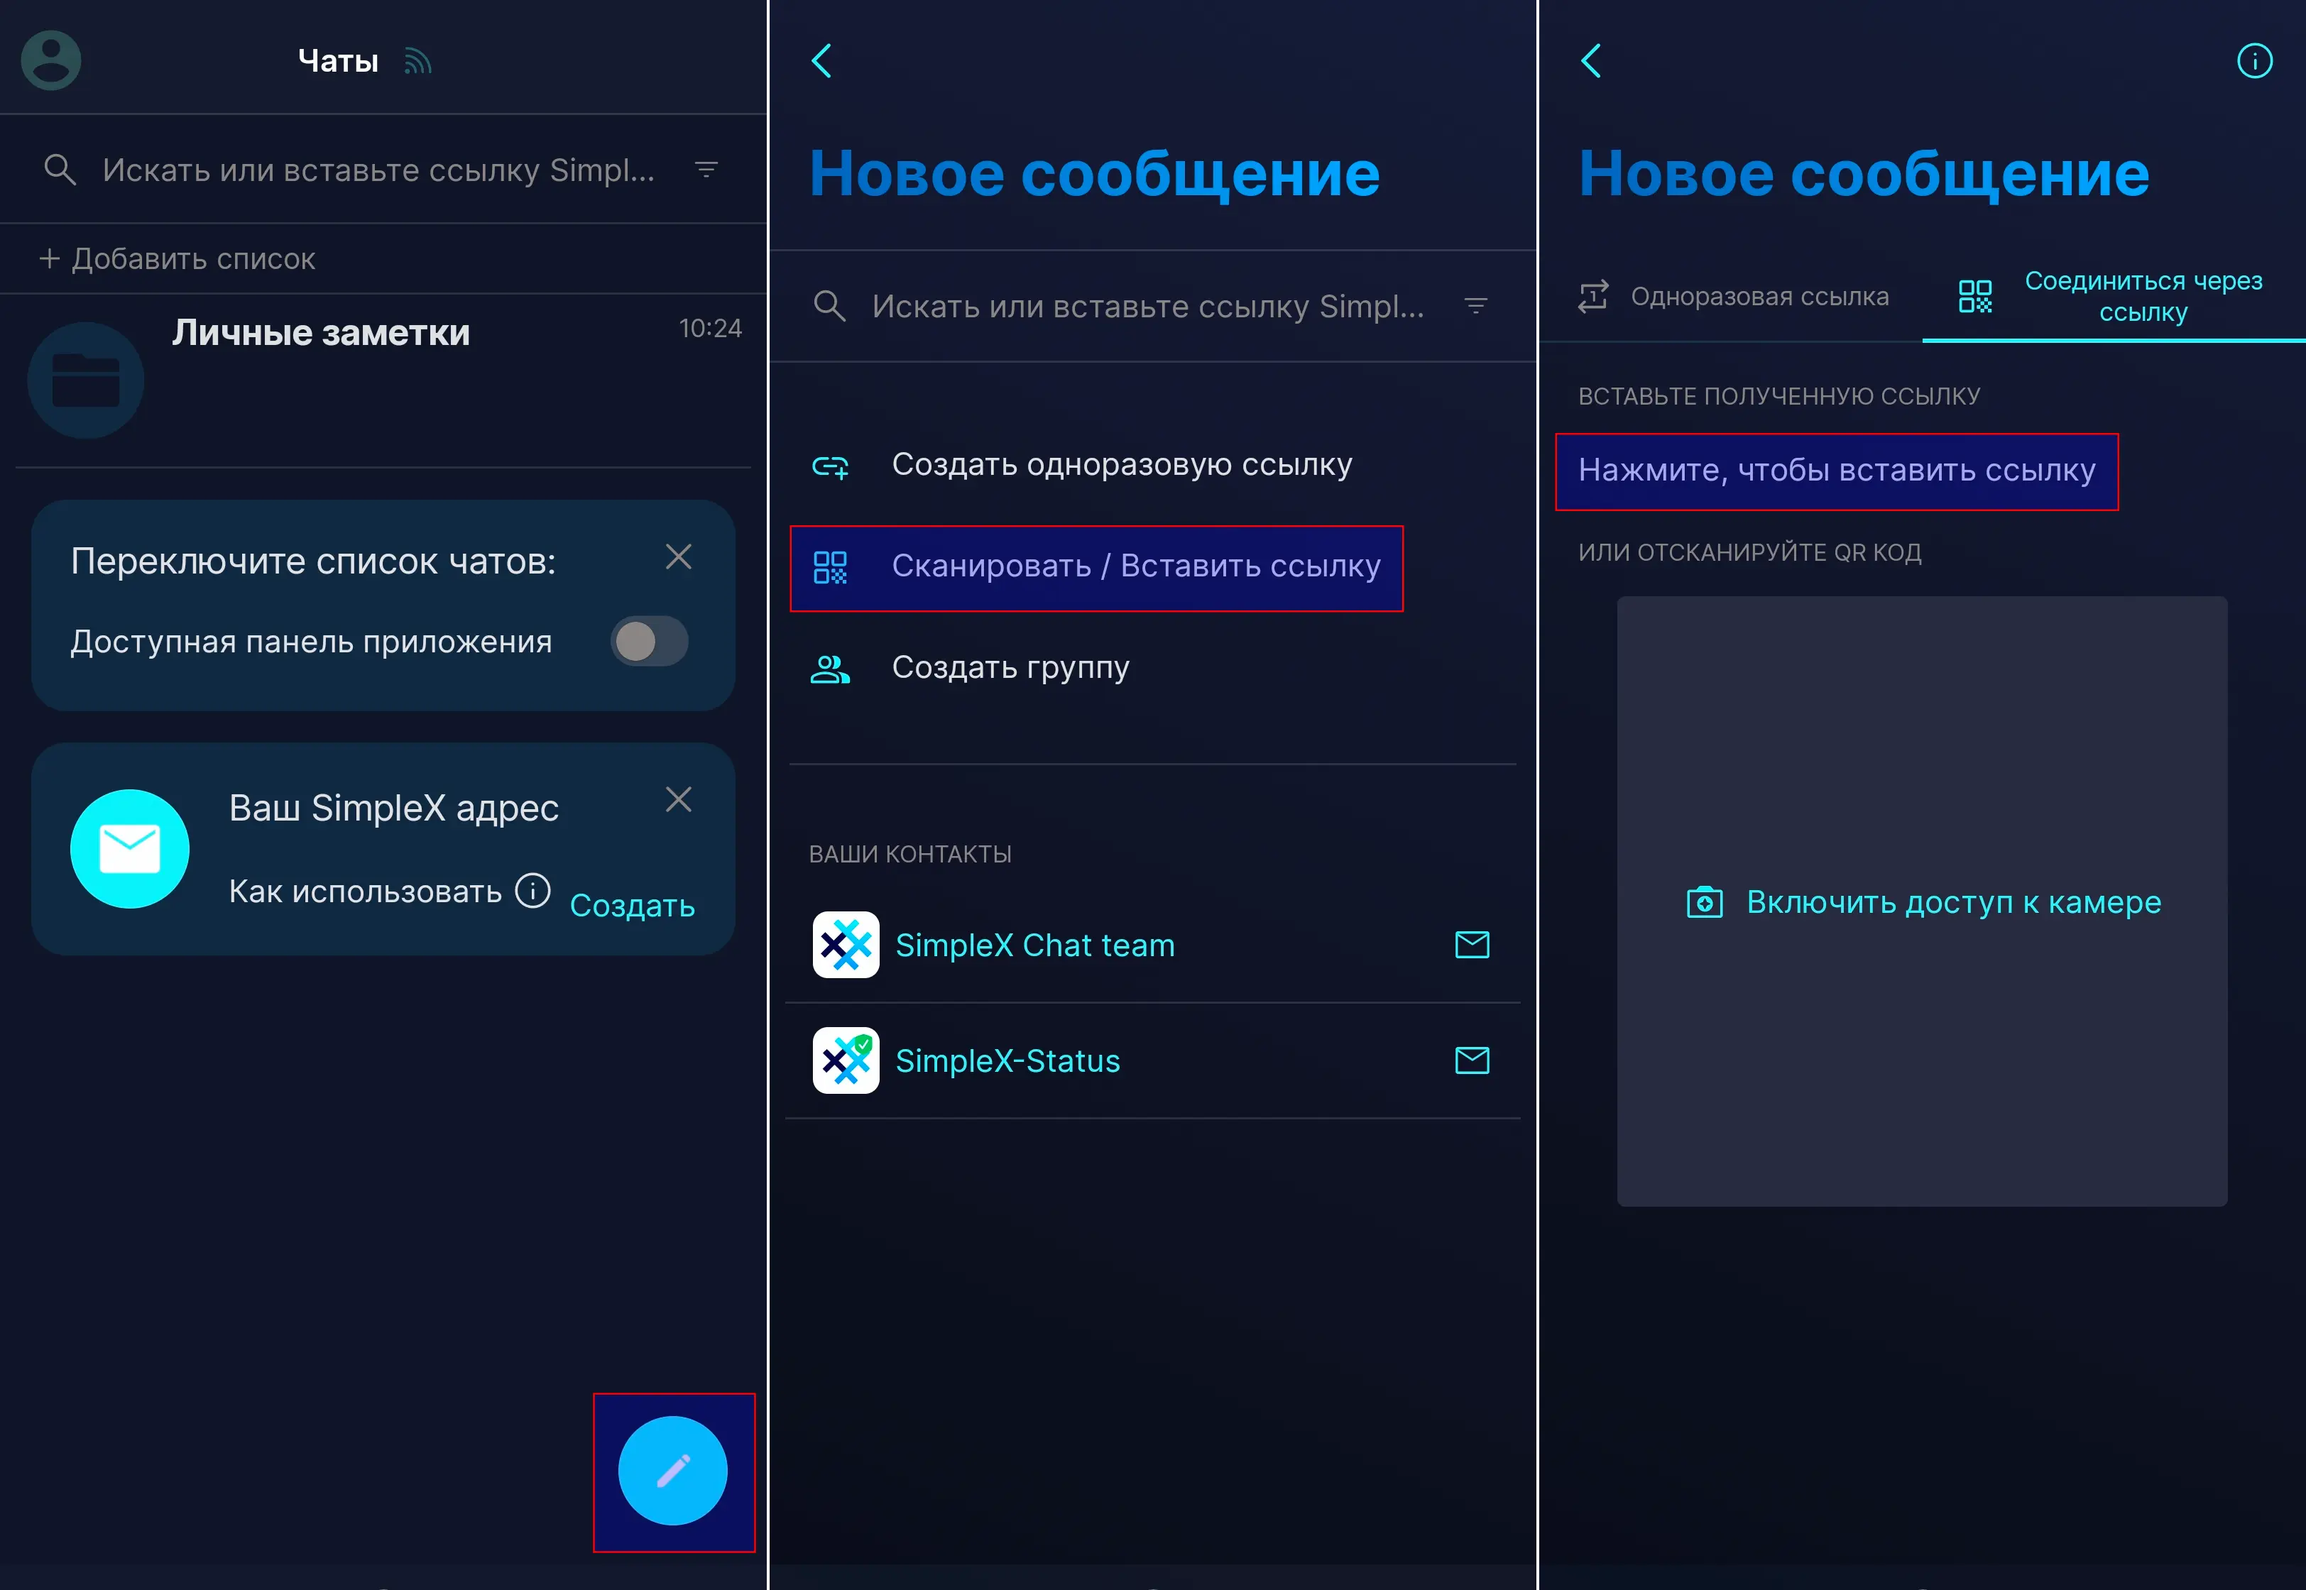
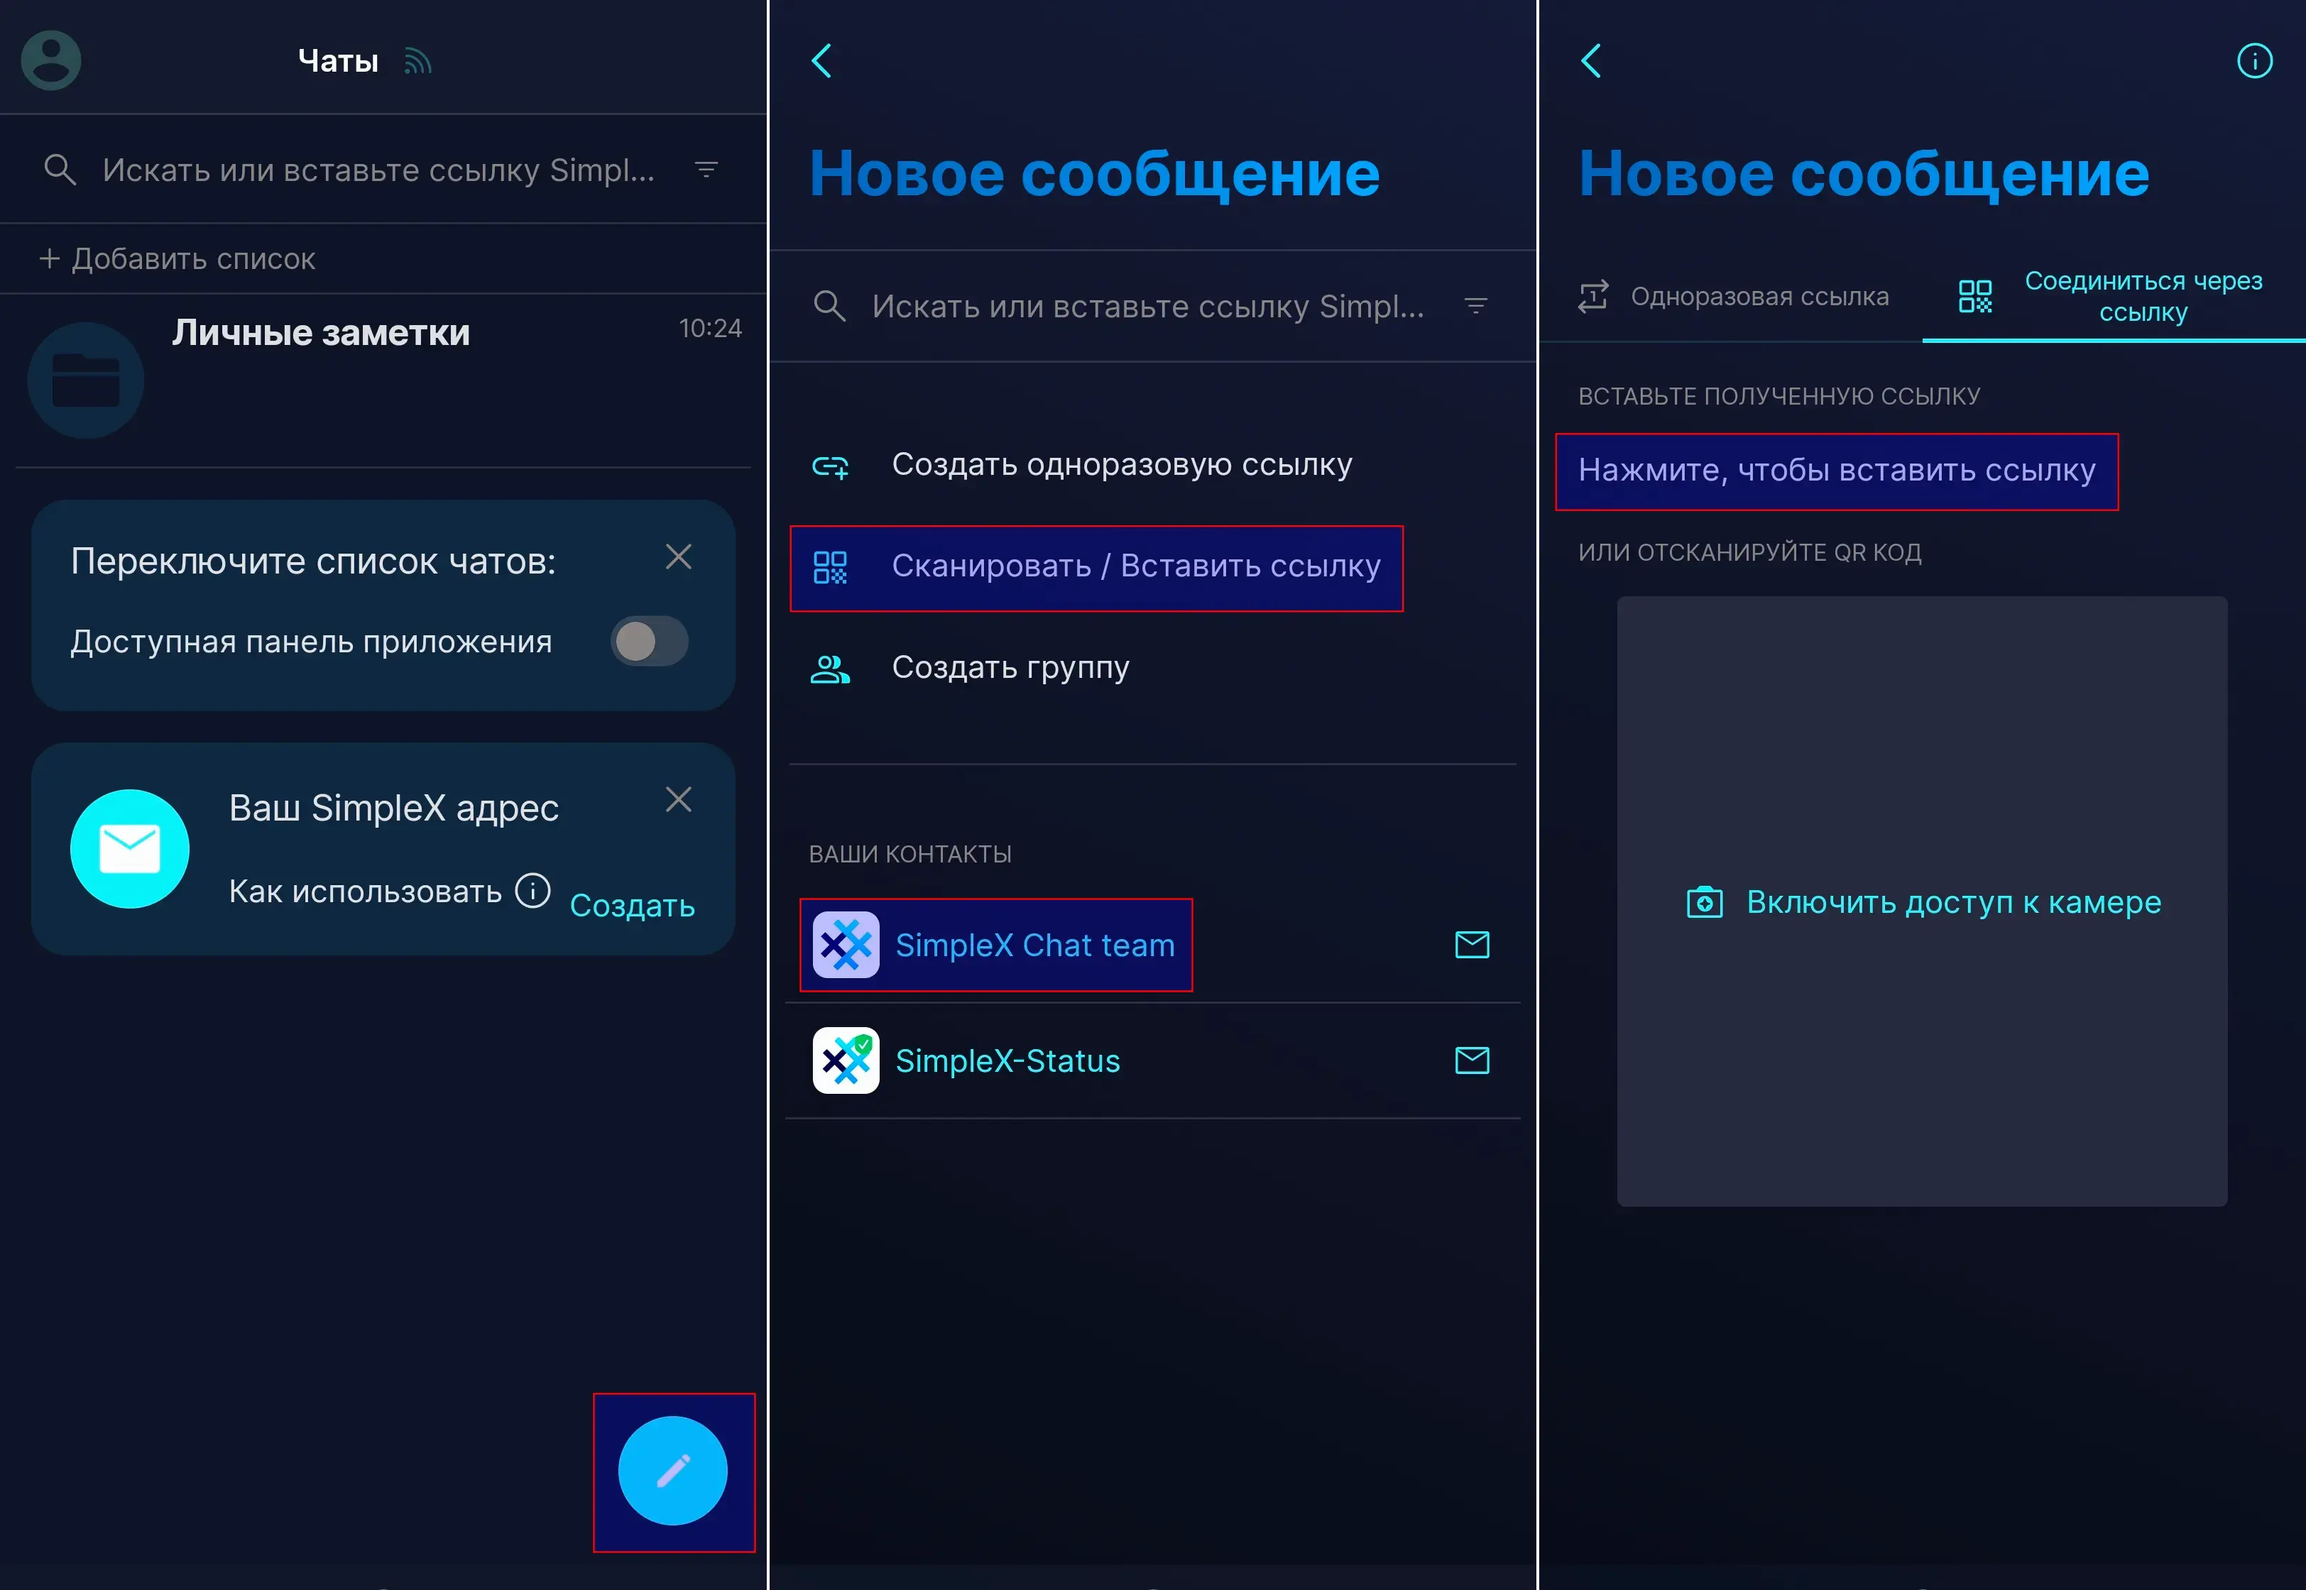
simplex edit

Changed region(s): [[0.3421, 0.5625, 0.5286, 0.625]]

diff --git a/content/privacy/simplex.md b/content/privacy/simplex.md
@@ -48,7 +48,23 @@ date: 2025-03-27
 - Не рекомендуется использовать одну и ту же базу данных на разных устройствах. Если вы хотите использовать SimpleX на двух устройствах, например смартфоне и ПК, создайте отдельный профиль на каждом из них.
 - Вы должны находиться онлайн, чтобы собеседник мог присоединиться к вашему чату.
 - Если вы не можете вступить в чат по ссылке, нажмите иконку карандаша на главном экране приложения, выберите **Сканировать / Вставить ссылку** > **Нажмите, чтобы вставить ссылку** (из буфера обмена).
+- Для тестирования приложения вы можете присоединиться к чату команды разработчиков SimpleX на экране **Новое сообщение**.
 
 {{% image src="img/privacy/simplex-5.webp" /%}}
 
 - Если после перехода / вставки ссылки, чат находится в состоянии **Запрошено соединение**, просто подождите. Присоединение к чату зависит от того, находится ли создатель или администратор чата онлайн.
+
+## Устранение проблем
+
+- Для мониторинга состояния соединения с серверами нажмите на значок сети рядом с заголовком "Чаты" на основном экране приложения, чтобы попасть в меню **Информация о серверах** > включите опцию **Показывать процент**.
+- В этом же меню внизу находится опция **Переподключить все серверы**, которая может быть полезна, если вы не получаете часть сообщений. Здесь же находится статистика по ошибкам соединений.
+
+{{% image src="img/privacy/simplex-6.webp" /%}}
+
+- Также рекомендуется сделать активными все доступные серверы. Для этого в настройках перейдите в раздел **Сеть и серверы** > **Simplex Chat** или **Flux** > выберите неактивный сервер в списке **Серверы сообщений** или **Серверы фалов и медиа** > в настройках сервера включите опцию **Использовать для новых соединений**.
+
+{{% image src="img/privacy/simplex-7.webp" /%}}
+
+- Если вы не заходили в приложение долгое время, то синхронизация групповых чатов может занять длительное время. Рекомендуется ознакомиться со статистикой ошибок соединений и использовать опцию **Переподключить все серверы** при возникновении проблем. После синхронизации перейдите в **Личные заметки** и снова вернитесь в нужный чат для устранения проблемы с порядком сообщений.
+- Для сброса счетчика непрочитанных сообщений сделайте длинный тап на нужном чате > **Прочитано**.
+- Наилучшее качество связи достигается с использованием VPN или Tor.
